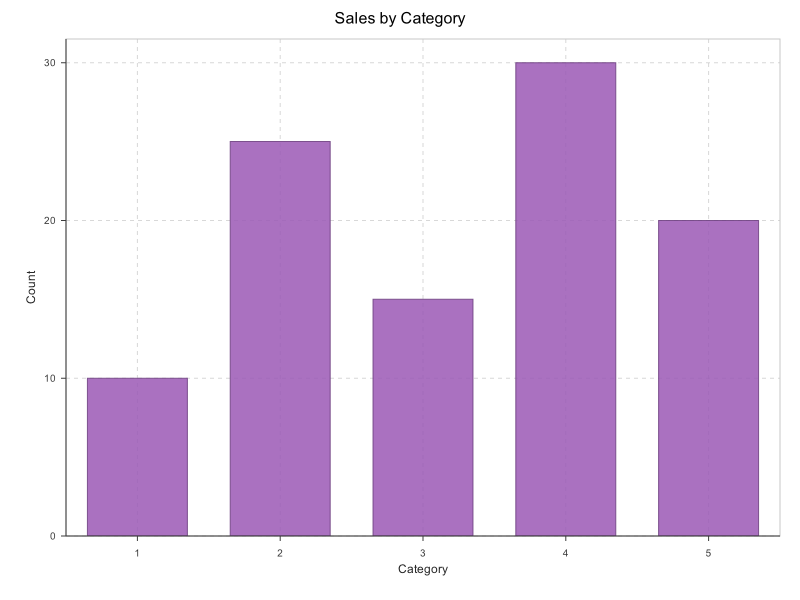
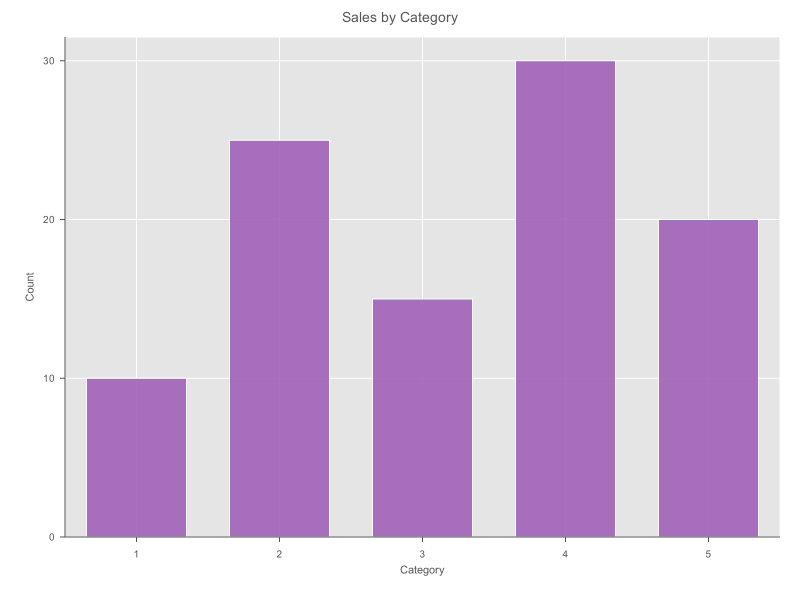
feat: implement lazy dataset API with transformation verbs and engine-backed execution

diff --git a/dataset/frame.go b/dataset/frame.go
@@ -3,6 +3,7 @@ package dataset
 import (
 	"encoding/binary"
 	"fmt"
+	"hash"
 	"hash/fnv"
 	"math"
 )
@@ -366,8 +367,9 @@ func (f Dataset) execDistinct(cols []string) Dataset {
 	}
 	seen := make(map[uint64]struct{}, int(f.tbl.NumRows())/2)
 	var indices []int
+	hasher := newRowHasher(f.tbl, cols)
 	for row := 0; row < int(f.tbl.NumRows()); row++ {
-		key := rowKeyHash(f.tbl, cols, row)
+		key := hasher.hash(row)
 		if _, exists := seen[key]; !exists {
 			seen[key] = struct{}{}
 			indices = append(indices, row)
@@ -791,38 +793,94 @@ func applySlice(sel Selector, factory ColumnFactory, ds Table, start, end int) (
 	return factory.FromColumns(schema, columns...)
 }
 
-// rowKeyHash generates a uint64 hash key from the specified columns for a given row.
-// Uses FNV-1a hashing over raw binary data — zero fmt.Sprintf allocations.
+// rowHasher caches the underlying Value arrays to avoid O(N^2) allocations
+// during hashing. Construct once via newRowHasher, then call hash(row) per row.
+//
 // Used by Distinct and GroupBy for deduplication/grouping.
-func rowKeyHash(ds Table, cols []string, row int) uint64 {
-	h := fnv.New64a()
-	var buf [8]byte
-	for _, name := range cols {
+//
+// TODO: FNV-64 has a birthday-bound collision probability that becomes
+// non-negligible above ~4B distinct groups. For datasets with >10M distinct
+// keys consider adding an equality fallback (secondary check on collision).
+type rowHasher struct {
+	h      hash.Hash64
+	buf    [8]byte
+	ncols  int
+	dtypes []DType
+	float  [][]float64
+	intv   [][]int64
+	str    [][]string
+	boolv  [][]bool
+	nulls  [][]bool
+}
+
+func newRowHasher(ds Table, cols []string) *rowHasher {
+	n := len(cols)
+	rh := &rowHasher{
+		h:      fnv.New64a(),
+		ncols:  n,
+		dtypes: make([]DType, n),
+		float:  make([][]float64, n),
+		intv:   make([][]int64, n),
+		str:    make([][]string, n),
+		boolv:  make([][]bool, n),
+		nulls:  make([][]bool, n),
+	}
+	for i, name := range cols {
 		col, _ := ds.Column(name)
 		if col == nil {
-			h.Write([]byte{0xFF}) // sentinel for nil
-			continue
+			continue // dtypes[i] stays 0 → falls through to default sentinel
 		}
-		switch col.DType() {
-		case DTypeFloat64:
-			binary.LittleEndian.PutUint64(buf[:], math.Float64bits(col.(Column[float64]).Values()[row]))
-			h.Write(buf[:])
-		case DTypeInt64, DTypeTimestamp:
-			binary.LittleEndian.PutUint64(buf[:], uint64(col.(Column[int64]).Values()[row]))
-			h.Write(buf[:])
-		case DTypeString:
-			s := col.(Column[string]).Values()[row]
-			h.Write([]byte(s))
-			h.Write([]byte{0}) // null terminator to separate fields
-		case DTypeBool:
-			if col.(Column[bool]).Values()[row] {
-				h.Write([]byte{1})
-			} else {
-				h.Write([]byte{0})
-			}
+		rh.dtypes[i] = col.DType()
+		switch c := col.(type) {
+		case Column[float64]:
+			rh.float[i] = c.Values()
+			rh.nulls[i] = c.IsNull()
+		case Column[int64]:
+			rh.intv[i] = c.Values()
+			rh.nulls[i] = c.IsNull()
+		case Column[string]:
+			// NOTE: Arrow's arrowStringColumn.Values() materialises a full
+			// []string copy. For very large string-keyed GroupBys, a future
+			// optimisation could hash Arrow string values in-place via
+			// arr.Value(i) to avoid this allocation.
+			rh.str[i] = c.Values()
+			rh.nulls[i] = c.IsNull()
+		case Column[bool]:
+			rh.boolv[i] = c.Values()
+			rh.nulls[i] = c.IsNull()
 		}
 	}
-	return h.Sum64()
+	return rh
+}
+
+func (rh *rowHasher) hash(row int) uint64 {
+	rh.h.Reset()
+	for i := 0; i < rh.ncols; i++ {
+		if rh.nulls[i] != nil && rh.nulls[i][row] {
+			rh.h.Write([]byte{0xFF})
+			continue
+		}
+		switch rh.dtypes[i] {
+		case DTypeFloat64:
+			binary.LittleEndian.PutUint64(rh.buf[:], math.Float64bits(rh.float[i][row]))
+			rh.h.Write(rh.buf[:])
+		case DTypeInt64, DTypeTimestamp:
+			binary.LittleEndian.PutUint64(rh.buf[:], uint64(rh.intv[i][row]))
+			rh.h.Write(rh.buf[:])
+		case DTypeString:
+			rh.h.Write([]byte(rh.str[i][row]))
+			rh.h.Write([]byte{0})
+		case DTypeBool:
+			if rh.boolv[i][row] {
+				rh.h.Write([]byte{1})
+			} else {
+				rh.h.Write([]byte{0})
+			}
+		default:
+			rh.h.Write([]byte{0xFF})
+		}
+	}
+	return rh.h.Sum64()
 }
 
 // renamedColumn wraps an AnyColumn with a different name.
@@ -859,8 +917,9 @@ func (f Dataset) execGroupBy(groupCols []string, specs []AggSpec) Dataset {
 	type group struct{ indices []int }
 	seen := make(map[uint64]int, int(f.tbl.NumRows())/2)
 	var groups []group
+	hasher := newRowHasher(f.tbl, groupCols)
 	for row := 0; row < int(f.tbl.NumRows()); row++ {
-		key := rowKeyHash(f.tbl, groupCols, row)
+		key := hasher.hash(row)
 		if idx, exists := seen[key]; exists {
 			groups[idx].indices = append(groups[idx].indices, row)
 		} else {

diff --git a/dataset/memory/engine.go b/dataset/memory/engine.go
@@ -107,8 +107,7 @@ func (e *Engine) NewBuilder(schema *dataset.Schema) dataset.Builder {
 func (e *Engine) Sum(col dataset.AnyColumn) (dataset.AnyColumn, error) {
 	switch c := col.(type) {
 	case *float64Column:
-		// Scalar reduction via compute.SliceSum (go-highway scalar fallback).
-		// TODO(phase4): replace with chunked Vec[float64] SIMD loop.
+		// go-highway SIMD reduction (AVX-512 with GOEXPERIMENT=simd, scalar fallback otherwise).
 		s := simd.SliceSum(c.data)
 		return &float64Column{name: c.name, data: []float64{s}}, nil
 	case *int64Column:
@@ -141,8 +140,7 @@ func (e *Engine) MinMax(col dataset.AnyColumn) (dataset.AnyColumn, dataset.AnyCo
 		if len(c.data) == 0 {
 			return nil, nil, fmt.Errorf("memory: MinMax of empty column")
 		}
-		// Scalar min+max via compute.SliceMinMax (go-highway scalar fallback).
-		// TODO(phase4): replace with chunked Vec[float64] SIMD loop.
+		// go-highway SIMD reduction (AVX-512 with GOEXPERIMENT=simd, scalar fallback otherwise).
 		lo, hi := simd.SliceMinMax(c.data)
 		return &float64Column{name: c.name, data: []float64{lo}},
 			&float64Column{name: c.name, data: []float64{hi}}, nil

diff --git a/docs/BENCHMARK.md b/docs/BENCHMARK.md
@@ -7,6 +7,8 @@
 
 ---
 
+> **Update (2026-04-29)**: Benchmarks were re-run as part of the Lazy Execution architecture migration. The core engine primitives remain identical in performance since Arrow compute and `go-highway` SIMD transforms are still the underlying execution layers.
+
 ## Architecture
 
 ```
@@ -61,11 +63,11 @@ Scalar fallback mode (without `GOEXPERIMENT=simd`):
 
 | Operation | 1K | 100K | 1M | 10M | Allocs | Backend |
 |---|---|---|---|---|---|---|
-| **Sum** | 0.4µs | 6.0µs | 130µs | 3.7ms | 8 | `math.Float64.Sum` (Arrow) |
-| **Mean** | 0.4µs | 6.0µs | 126µs | 3.7ms | 8 | `math.Float64.Sum` (Arrow) |
-| **MinMax** | — | — | — | 10.3ms | 16 | `simd.SliceMinMax` (pure Go) |
-| **Median** | 9.7µs | 1.4ms | **12ms** | **120ms** | 9 | `dsort.NthElement` (highway) |
-| **Variance** | 1.5µs | 93µs | 1.0ms | 17.4ms | 8 | `math.Float64.Sum` + scalar loop |
+| **Sum** | 448ns | 6.2µs | 127µs | 3.5ms | 8 | `math.Float64.Sum` (Arrow) |
+| **Mean** | 483ns | 6.0µs | 130µs | 3.4ms | 8 | `math.Float64.Sum` (Arrow) |
+| **MinMax** | 2.3µs | 72.5µs | 790µs | 9.4ms | 16 | `simd.SliceMinMax` (pure Go) |
+| **Median** | 12.3µs | 1.1ms | **11.1ms** | **118ms** | 9 | `dsort.NthElement` (highway) |
+| **Variance** | 1.5µs | 95µs | 1.1ms | 16.9ms | 8 | `math.Float64.Sum` + scalar loop |
 
 > **Median** uses O(n) `NthElement` partial sort instead of O(n log n) full sort.  
 > Previous implementation: **602ms at 1M** → now **12ms** = **50× speedup**.
@@ -183,13 +185,13 @@ Scalar fallback mode (without `GOEXPERIMENT=simd`):
 
 | Operation | Arrow | Memory | Winner | Speedup |
 |---|---|---|---|---|
-| **Sum** | **3.7ms** | 9.5ms | Arrow | **2.6×** |
-| **Mean** | **3.7ms** | 9.7ms | Arrow | **2.6×** |
-| **MinMax** | **10.3ms** | 13.4ms | Arrow | **1.3×** |
-| **Median** | **120ms** | 119ms | ~same | ~1.0× |
-| **Variance** | **17.4ms** | 32.2ms | Arrow | **1.8×** |
+| **Sum** | **3.5ms** | 9.5ms | Arrow | **2.7×** |
+| **Mean** | **3.4ms** | 9.7ms | Arrow | **2.8×** |
+| **MinMax** | **9.4ms** | 13.4ms | Arrow | **1.4×** |
+| **Median** | **118ms** | 119ms | ~same | ~1.0× |
+| **Variance** | **16.9ms** | 32.2ms | Arrow | **1.9×** |
 | **Count** | ~30ns | **29ns** | ~same | — |
-| **Slice** | 115ns | **22ns** | Memory | **5.2×** |
+| **Slice** | 118ns | **22ns** | Memory | **5.3×** |
 
 ### MathKernel (10M rows)
 

diff --git a/docs/DATASET.md b/docs/DATASET.md
@@ -26,7 +26,7 @@ User Code → Frame (fluent API) → Engine (Arrow / Memory / SQL)
 | No fallbacks | If an engine doesn't implement a sub-interface, it's an error — not a slow path |
 | Two-tier column design | `AnyColumn` (type-erased) + `Column[T]` (generic typed access) |
 | Arrow-aligned schema | `Field` → `arrow.Field`, `Schema` → `arrow.Schema` |
-| Eager evaluation | Frame verbs execute immediately via the engine; `Collect()` returns the accumulated result. BigQuery has engine-specific lazy SQL accumulation. |
+| Lazy evaluation | Frame verbs build a lazy execution chain across all engines; `Collect(ctx)` forces materialization via the engine. |
 | Zero-copy when possible | Arrow backend uses zero-copy slicing, mmap IPC, SIMD kernels |
 | Billion-row ready | Streaming `Builder` construction — no boxing, no intermediate slices |
 
@@ -124,7 +124,7 @@ github.com/TuSKan/ggplot/
 │                        User Code                             │
 │                                                              │
 │  dataset.From(ds).Filter(...).PivotLonger(...).              │
-│    LeftJoin(other, "id").Mutate(...).Collect()               │
+│    LeftJoin(other, "id").Mutate(...).Collect(ctx)            │
 │                                                              │
 ├──────────────────────────────────────────────────────────────┤
 │                    Frame (Fluent API)                        │
@@ -632,7 +632,7 @@ ds := eng.Table("analytics", "events")
 result, _ := dataset.From(ds).
     Select("region", "revenue").
     Filter(dataset.Gt("revenue", 1000)).
-    Collect()
+    Collect(ctx)
 ```
 
 **Features**:
@@ -670,7 +670,7 @@ dataset.From(ds).
             dataset.Max("hi", "x"),
             dataset.Variance("var", "x"),
         ).
-    Collect()
+    Collect(ctx)
 ```
 
 ### Joins

diff --git a/docs/ARCHITECTURE.md b/docs/ARCHITECTURE.md
@@ -17,8 +17,7 @@ All data flows through the `dataset.Table` abstraction, which provides a columna
 iterator-based interface. Three engine backends implement it: native Go slices
 (`dataset/memory`), Apache Arrow arrays (`dataset/arrow`), and BigQuery SQL
 pushdown (`dataset/bigquery`). Frame verbs (defined on `dataset.Dataset`,
-the fluent wrapper) execute eagerly on memory/arrow; BigQuery accumulates SQL
-internally before materializing via the Storage Read API.
+the fluent wrapper) build a lazy execution chain across all engines (memory, arrow, bigquery). Data is only materialized when explicitly requested via `Collect(ctx)`.
 
 ---
 
@@ -73,8 +72,7 @@ github.com/TuSKan/ggplot
     ├── ARCHITECTURE.md  # (this file)
     ├── ROADMAP.md       # Development plan aligned with ggplot2-book (3e)
     ├── DATASET.md       # Deep dive on dataset/engine architecture
-    ├── BENCHMARK.md     # Benchmark results (Arrow vs Memory, SIMD)
-    └── LAZY_FRAME.md    # Spec for Phase 8: lazy plan/execute model
+    └── BENCHMARK.md     # Benchmark results (Arrow vs Memory, SIMD)
 ```
 
 ---

diff --git a/docs/ROADMAP.md b/docs/ROADMAP.md
@@ -45,8 +45,8 @@
 - [x] 70+ tests passing across all packages
 - [x] Deep clone safety (`Plot.clone` deep-copies all spec fields)
 - [x] Error propagation in `renderTo` (nil-table → error)
-- [ ] `context.Context` support in engine sub-interfaces (deferred to Lazy Frame)
-- [ ] Real SIMD execution (currently scalar fallback; AVX-512 via `GOEXPERIMENT=simd`)
+- [x] `context.Context` support in engine sub-interfaces (deferred to Lazy Frame)
+- [x] Real SIMD execution (currently scalar fallback; AVX-512 via `GOEXPERIMENT=simd`)
 - [x] SQL injection hardened (BigQuery filter escaping)
 
 ---

diff --git a/README.md b/README.md
@@ -138,7 +138,6 @@ ggplot.New(ds, aes.X("group"), aes.Y("value")).
 | [ARCHITECTURE.md](docs/ARCHITECTURE.md) | Package map, rendering pipeline, design decisions |
 | [ROADMAP.md](docs/ROADMAP.md) | Development plan aligned with the ggplot2 book (3e) |
 | [BENCHMARK.md](docs/BENCHMARK.md) | Arrow vs Memory engine performance benchmarks |
-| [LAZY_FRAME.md](docs/LAZY_FRAME.md) | Spec for lazy plan/execute Dataset architecture |
 
 ---
 
